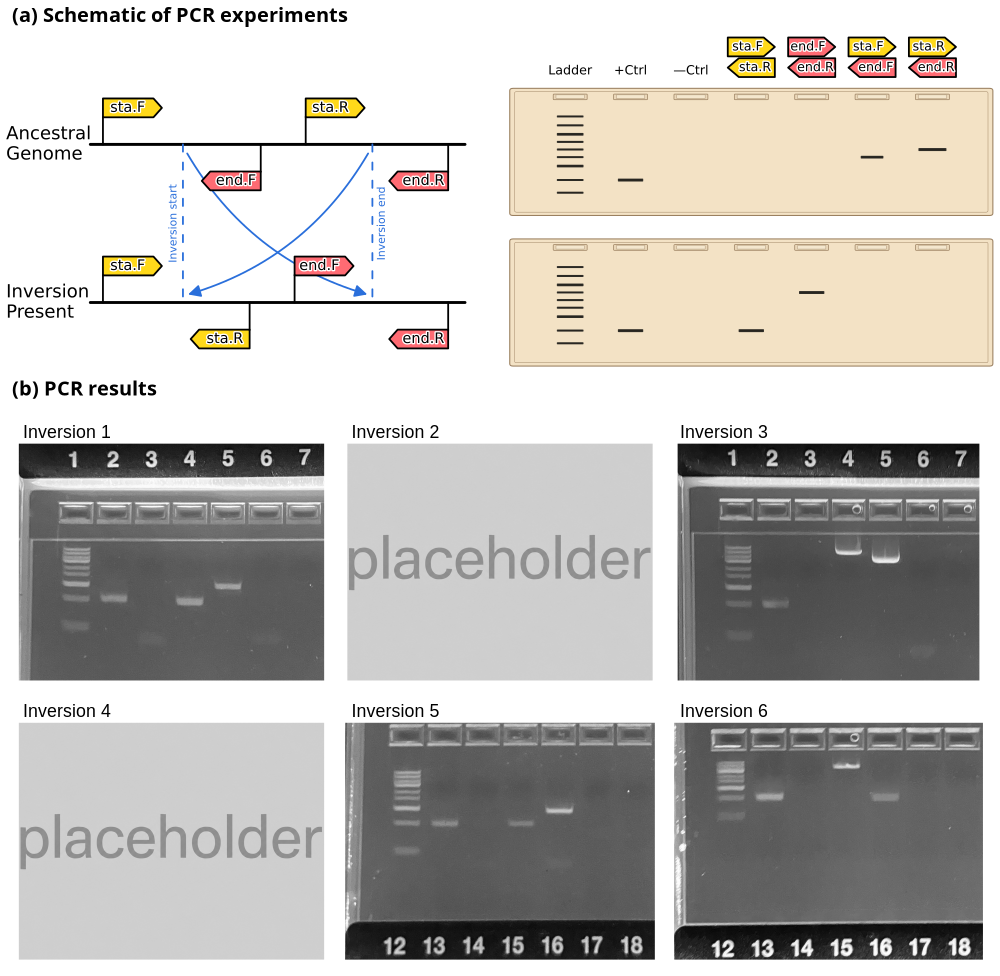
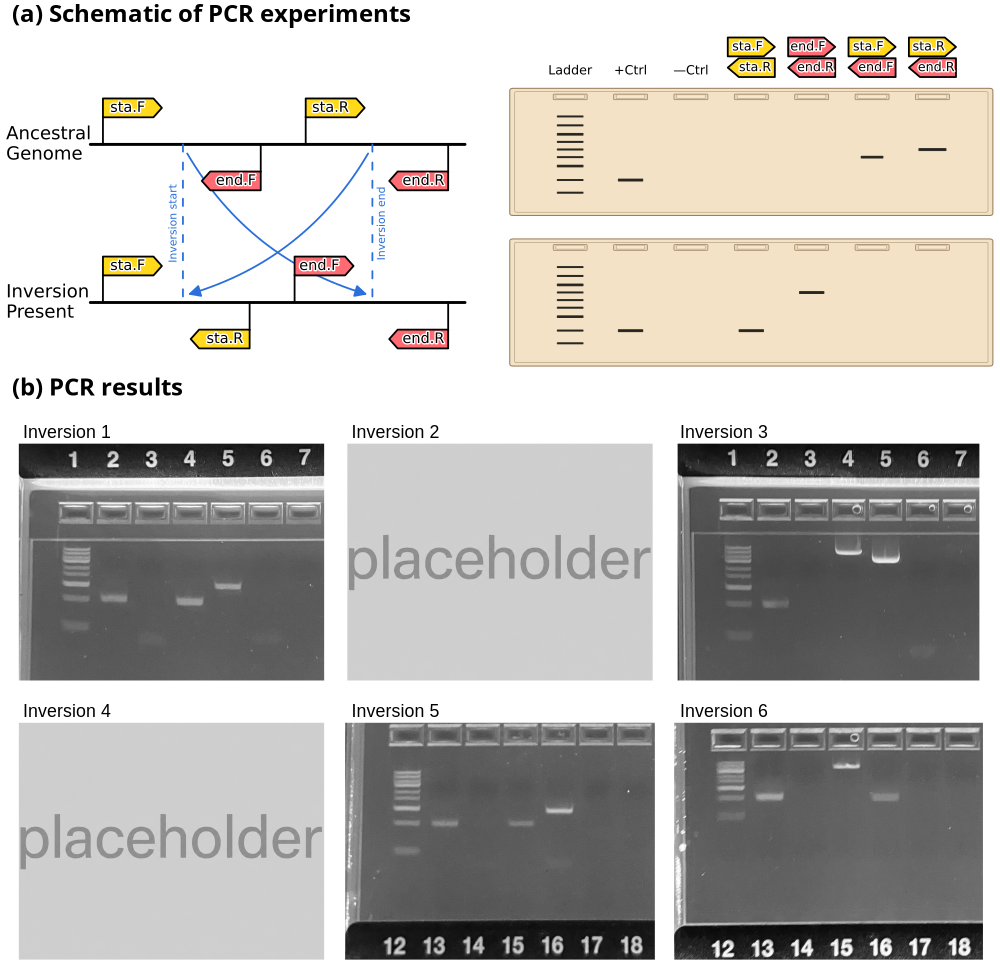
Adjusting label font size

Changed region(s): [[0.0, 0.0, 0.403, 0.0307], [0.0, 0.3689, 0.186, 0.4303]]

diff --git a/CODE__Genomic_inversion_testing.md b/CODE__Genomic_inversion_testing.md
@@ -74,8 +74,8 @@ Figure(
 
     SVG(svg1).scale(scale1).move(0, section1_image_y),
     SVG(svg2).scale(scale2).move(0, section2_image_y),
-    Text("(a) Schematic of PCR experiments", 12, section1_y + 22, size=20, weight="bold"),
-    Text("(b) PCR results", 12, section2_y + 22, size=20, weight="bold")
+    Text("(a) Schematic of PCR experiments", 12, section1_y + 22, size=24, weight="bold"),
+    Text("(b) PCR results", 12, section2_y + 22, size=24, weight="bold")
 
 ).save(combined_svg)
 

diff --git a/README.md b/README.md
@@ -9,10 +9,10 @@ The analysis files of the data visualized here can be found on [Zenodo.org](http
 #### Figure: 16S rRNA metagenomics
 The code for creating the following figure is displayed [here](CODE__Figure_16S_rRNA_metagenomics.md).
 
-![Combined figure](VIZ__Figure_16S_rRNA_metagenomics/Fig_16S_rRNA__COMBINED.png)
+![Compound figure on 16S rRNA metagenomics](VIZ__Figure_16S_rRNA_metagenomics/Fig_16S_rRNA__COMBINED.png)
 
 
 #### Figure: Genomic inversion testing
 The code for creating the following figure is displayed [here](CODE__Genomic_inversion_testing.md).
 
-![Combined figure](VIZ__Figure_Genomic_inversion_testing/Fig_Genomic_inversion__COMBINED.png)
+![Compound figure on genomic inversion testing](VIZ__Figure_Genomic_inversion_testing/Fig_Genomic_inversion__COMBINED.png)